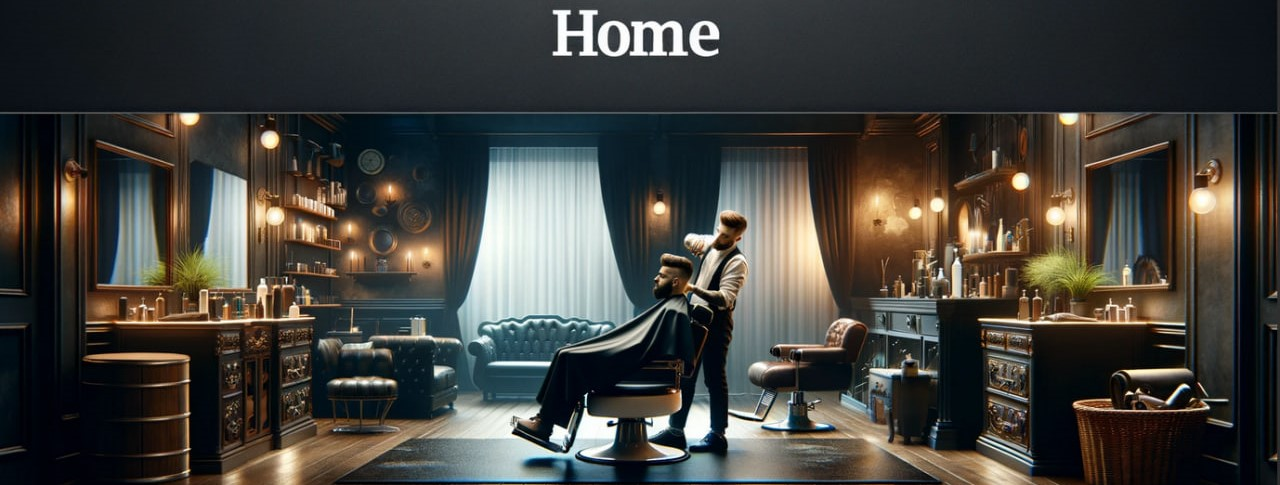
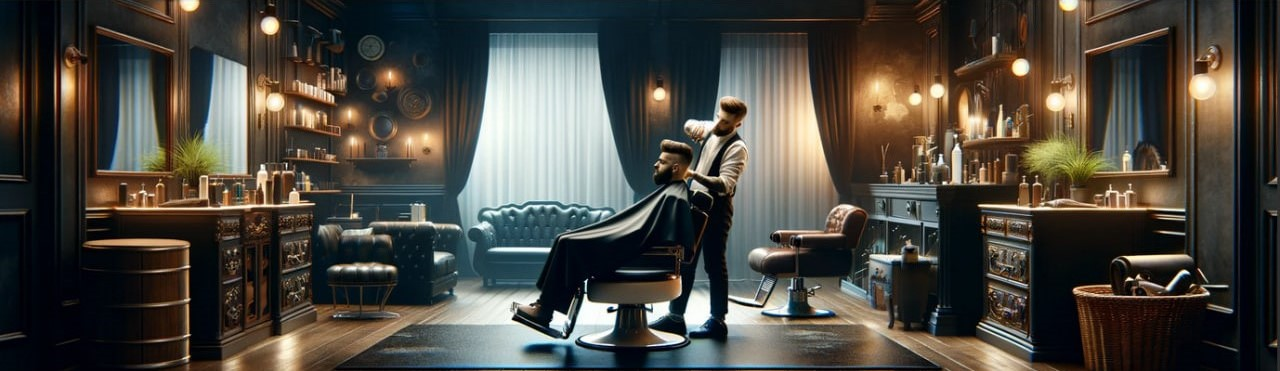
add Team page

diff --git a/static/css/style.css b/static/css/style.css
@@ -127,7 +127,7 @@ section {
    display: flex;
    align-items: center;
    justify-content: center;
-   background: url("../img/bg/home5.jpg") ;
+   background: url("../img/bg/home3.jpg") ;
 }
 
 h1 {
@@ -232,7 +232,7 @@ h1 {
    display: flex;
    align-items: center;
    justify-content: center;
-   background: url("../img/bg/about4.jpg") ;
+   background: url("../img/bg/all-2.jpg") ;
 }
 
 .about {
@@ -290,6 +290,80 @@ h1 {
    color:#00551c;
    display:block;
 }
+
+
+
+/*---------------------------------------------------------------------
+   Team style
+*/
+
+.heading-team {
+   background-size: cover !important;
+   background-position: center !important;
+   padding-top: 9rem;
+   padding-bottom: 15rem;
+   display: flex;
+   align-items: center;
+   justify-content: center;
+   background: url("../img/bg/team.jpg") ;
+}
+
+.team {
+   display: flex;
+   align-items: center;
+   flex-wrap: wrap;
+   gap:3rem;
+}
+
+.team .image {
+   flex:1 1 40rem;
+}
+
+.team .content {
+   flex:1 1 40rem;
+   text-align: center;
+}
+
+.team .content h3 {
+   font-size: 18pt;
+   color:var(--black);
+   text-transform: none;
+}
+
+.team .content p {
+   font-size: 14pt;
+   color:var(--light-black);
+   line-height: 2;
+   padding:1rem 0;
+}
+
+.team .content .icons-container {
+   margin-top: 15pt; 
+   display: flex;
+   flex-wrap: wrap;
+   gap:1.5rem;
+   align-items: flex-end;
+}
+
+.team .content .icons-container .icons {
+   background: var(--light-bg);  
+   padding:2rem;
+   flex:1 1 16rem;
+}
+
+.team .content .icons-container .icons i {
+   font-size: 5rem;
+   margin-bottom: 2rem; 
+   color:var(--main-color);
+}
+
+.team .content .icons-container .icons a {
+   font-weight: bold;
+   font-size: 2rem;
+   color:#00551c;
+   display:block;
+}
+
 
 /*---------------------------------------------------------------------
    Booking style

diff --git a/team.php b/team.php
@@ -1,0 +1,49 @@
+<?php
+   session_start();
+?>
+
+<!DOCTYPE html>
+<html lang="en">
+   <head>
+      <meta charset="UTF-8">
+      <meta http-equiv="X-UA-Compatible" content="IE=edge">
+      <meta name="viewport" content="width=device-width, initial-scale=1.0">
+      <title>Team</title>
+
+      <!-- Import CSS section from PHP file -->
+      <?php require "inc/_style.php" ?>
+
+   </head>
+
+   <body>
+
+      <!-- Import header section from PHP file -->
+      <?php require "inc/_header.php" ?>
+
+      <div class="main">
+         <!-- background of about -->
+         <div class="heading-team"> 
+            
+            
+         
+         </div>
+      </div>
+
+      <section>
+
+         <div>
+            Team
+         </div>
+
+
+
+
+      </section>
+
+
+      <!-- Import footer section from PHP file -->
+      <?php require "inc/_footer.php" ?>
+
+      <!-- images from website: https://wallpapers.com/ -->
+   </body>
+</html>
